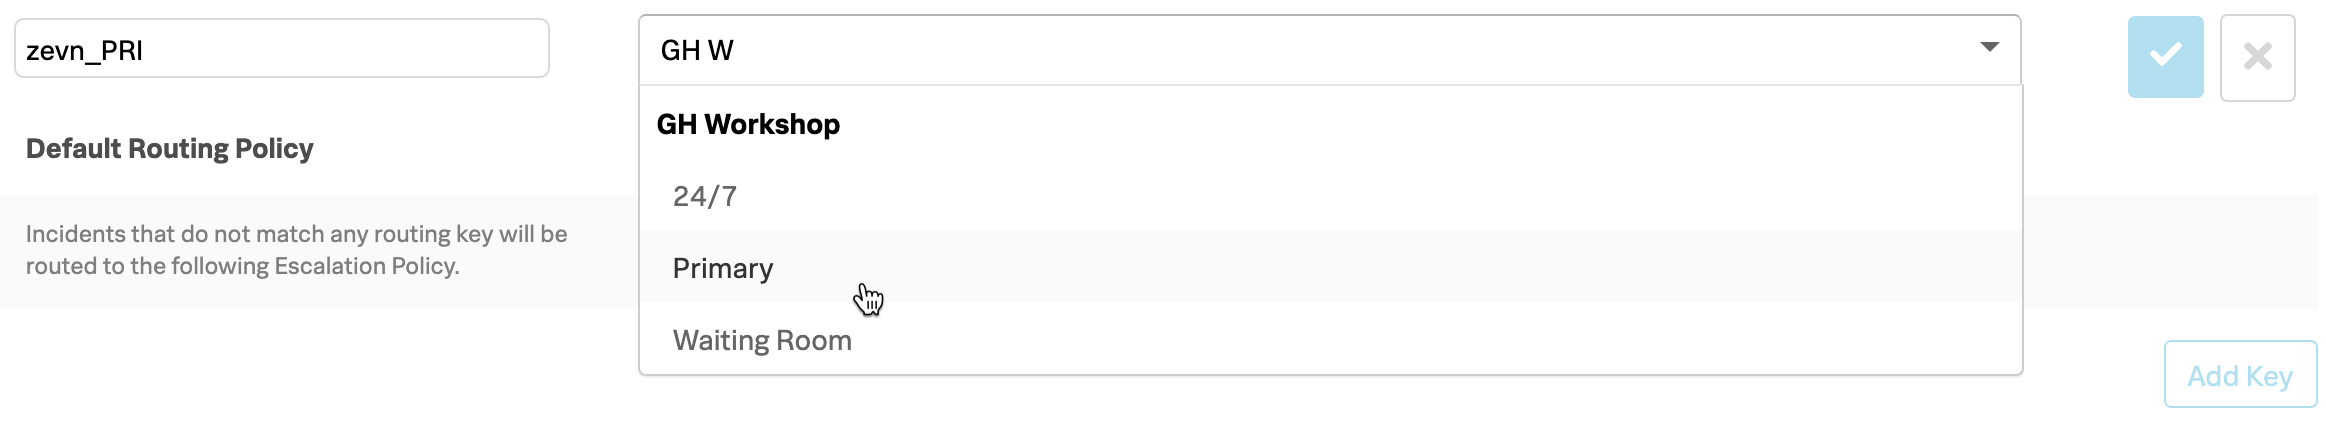
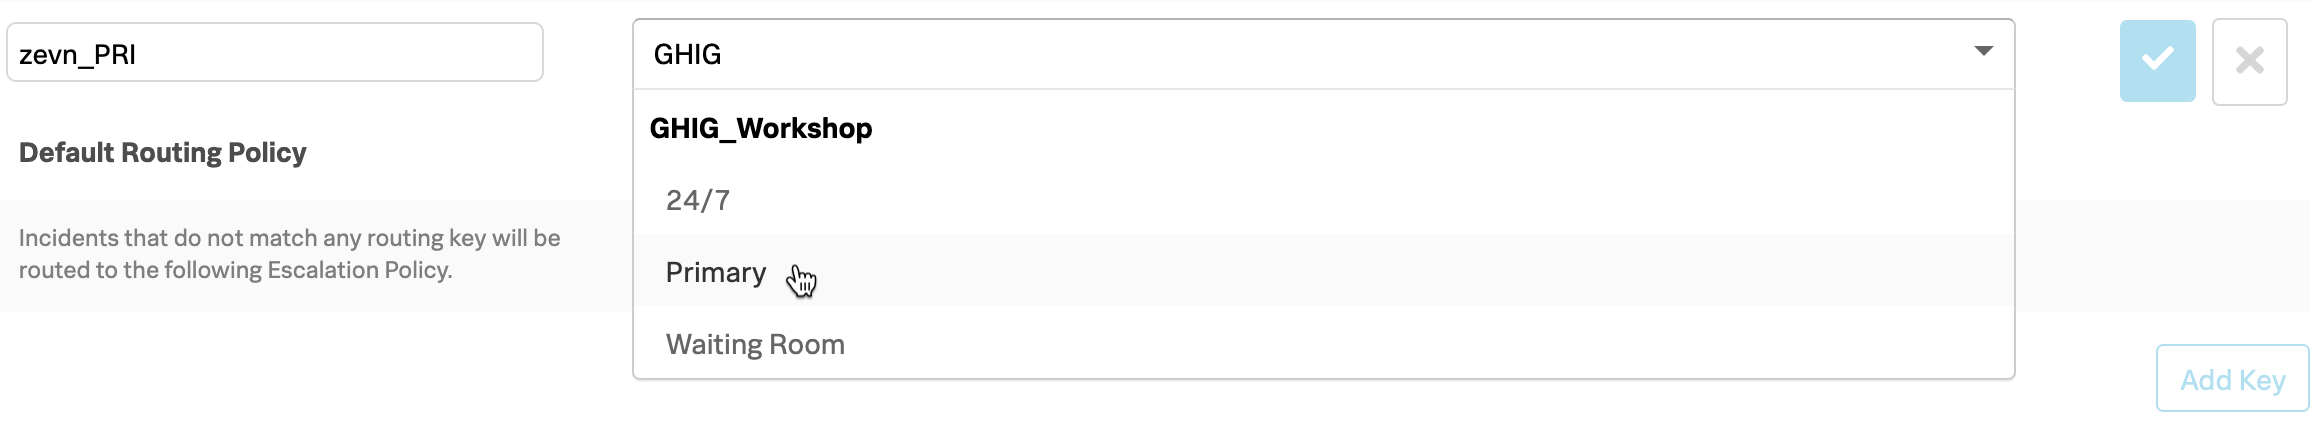
Updated Create Routing Keys
Updated screen shots to reflect correct naming convention

diff --git a/docs/victorops/getting_started/routing.md b/docs/victorops/getting_started/routing.md
@@ -43,9 +43,13 @@ In the left hand box, enter the name for the key as per the table above.  In the
 !!! note
     If there are a large number of participants on the workshop, resulting in an unusually large number of Escalation Policies sometimes the search filter does not list all the Policies under your Team Name.  If this happens instead of using the search feature, simply scroll down to your team name, all the policies will then be listed.
 
-Repeat the above steps for both Keys, xxx_PRI and xxx_WR, mapping them to your Teams Primary and Waiting Room policies.
+Repeat the above steps for both Keys, {==xxxx_PRI==} and {==xxxx_WR==}, mapping them to your Teams Primary and Waiting Room policies.
 
-!!! note
+You should now have two Routing Keys configured, similar to the following:
+
+![Routing Keys](../../images/victorops/routing-keys.png){: .zoom}
+
+!!! tip
     You can assign a Routing Key to multiple Escalation Policies if required by simply selecting more from the list
 
 If you now navigate back to **Teams → [Your Team Name] → Escalation Policies** and look at the settings for your **Primary** and **Waiting Room** polices you will see that these now have **Routes** assigned to them.
